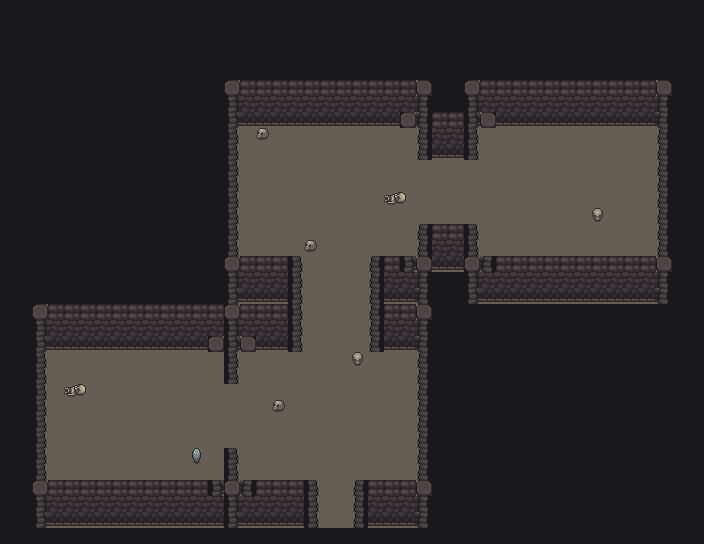
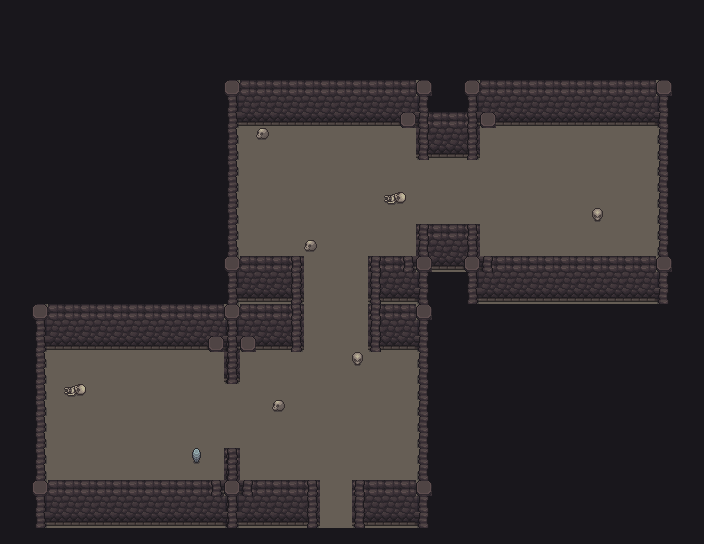
Prevent wall crop padding from cutting gaps through temple masonry

diff --git a/js/first-temple.js b/js/first-temple.js
@@ -1,11 +1,11 @@
 /* Branched first temple: authored floors also define collision and encounter bounds. */
 async function prepareExpandedFirstTemple(){
   if(W.maps.tp1.templeExpanded)return;
-  const response=await fetch('assets/interiors/first-temple/layout.json?v=20260923-temple2');
+  const response=await fetch('assets/interiors/first-temple/layout.json?v=20260923-temple3-seams');
   if(!response.ok)throw Error('First temple layout could not load');
   const layout=await response.json(),images={};
   for(const id of Object.keys(layout)){
-    const image=new Image();image.src='assets/interiors/first-temple/'+id+'.png?v=20260923-temple2';
+    const image=new Image();image.src='assets/interiors/first-temple/'+id+'.png?v=20260923-temple3-seams';
     await image.decode();images[id]=image;
   }
   const old=W.maps.tp1,outside=old.doors.find(d=>d.to==='world'),alderic=old.npcs.find(n=>n.n==='Alderic');

diff --git a/index.html b/index.html
@@ -328,7 +328,7 @@ window.addEventListener("unhandledrejection", function (e) {
 <script src="js/generated/media-5.js?v=1790049472"></script>
 <script src="js/generated/media-6.js?v=1790049472"></script>
 <script src="js/generated/media-7.js?v=1790049472"></script>
-<script src="js/first-temple.js?v=20260923-temple2"></script>
+<script src="js/first-temple.js?v=20260923-temple3-seams"></script>
 <script src="js/fishing.js?v=20260923-fishing-render3"></script>
 <script src="js/house-loot.js?v=20260923-temple2"></script>
 <script src="js/millwood-interiors.js?v=20260923-castle-audit2"></script>

diff --git a/tools/build-first-temple.py b/tools/build-first-temple.py
@@ -13,6 +13,18 @@ north=original.crop((112,32,128,80))
 west=original.crop((64,96,80,112));east=original.crop((240,96,256,112))
 left_pillar=original.crop((64,32,80,80));right_pillar=original.crop((240,32,256,80))
 layout=json.loads((ROOT/'assets/interiors/first-temple/layout.json').read_text())
+VOID={(25,23,28,255),(25,23,30,255)}
+APRON={(102,94,85,255),(75,70,67,255)}
+def stamp_wall(im,tile,xy):
+ # Source crops include opaque exterior padding and a floor/shadow apron.
+ # Neither may erase masonry already drawn at a perpendicular junction.
+ tile=tile.copy();ox,oy=xy
+ for y in range(tile.height):
+  for x in range(tile.width):
+   p=tile.getpixel((x,y));dx,dy=ox+x,oy+y
+   if p in VOID or (p in APRON and 0<=dx<im.width and 0<=dy<im.height and im.getpixel((dx,dy)) not in VOID|APRON):
+    tile.putpixel((x,y),(0,0,0,0))
+ im.alpha_composite(tile,xy)
 def runs(values):
  values=sorted(values)
  if not values:return
@@ -34,12 +46,12 @@ for id,m in layout.items():
    edge=[x for x,fy in floor if fy==y and (x,y+direction*16) not in floor and not(direction==1 and any(y+16==ey+48 and ex-16<=x<ex+16 for ex,ey in exits))]
    for l,r in runs(edge):
     top=y-48 if direction<0 else y+16
-    for x in range(l,r,16):im.alpha_composite(north,(x,top))
+    for x in range(l,r,16):stamp_wall(im,north,(x,top))
     pillars.extend([(l-16,top,left_pillar),(r,top,right_pillar)])
  for x,y in sorted(floor):
-  if (x-16,y) not in floor:im.alpha_composite(west,(x-16,y))
-  if (x+16,y) not in floor:im.alpha_composite(east,(x+16,y))
- for x,y,tile in pillars:im.alpha_composite(tile,(x,y))
+  if (x-16,y) not in floor:stamp_wall(im,west,(x-16,y))
+  if (x+16,y) not in floor:stamp_wall(im,east,(x+16,y))
+ for x,y,tile in pillars:stamp_wall(im,tile,(x,y))
  # A single floor mask prevents doubled seams or walls crossing a junction.
  for x,y in floor:im.paste((102,94,85,255),(x,y,x+16,y+16))
  for x,y in sorted(floor):

diff --git a/tests/temple-wall-art.py b/tests/temple-wall-art.py
@@ -5,6 +5,8 @@ from PIL import Image
 ROOT=Path(__file__).resolve().parents[1]
 plans=json.loads((ROOT/'assets/interiors/first-temple/layout.json').read_text())
 checks=0
+seam_pixels=0
+void={(25,23,28,255),(25,23,30,255)}
 for id,m in plans.items():
  im=Image.open(ROOT/f'assets/interiors/first-temple/{id}.png').convert('RGBA');floor=set()
  exits=[(d['x'],d['y']) for d in m['doors'] if d['dir']=='d']
@@ -16,6 +18,13 @@ for id,m in plans.items():
    if (x,y+direction*16) in floor:continue
    if direction==1 and any(y+16==ey+48 and ex-16<=x<ex+16 for ex,ey in exits):continue
    top=y-48 if direction==-1 else y+16
+   # Audit the entire stone face, especially the outer columns where side
+   # crops and pillars used to punch opaque void strips through the wall.
+   for py in range(top,top+46):
+    for px in range(x,x+16):
+     if (px//16*16,py//16*16) in floor:continue
+     assert im.getpixel((px,py)) not in void|{(102,94,85,255),(75,70,67,255)},(id,'wall seam gap',px,py)
+     seam_pixels+=1
    for offset in [8,24,40]:
     py=top+offset;tile=(x,(py//16)*16)
     if tile in floor:continue
@@ -23,6 +32,12 @@ for id,m in plans.items():
     checks+=1
   for direction in [-1,1]:
    if (x+direction*16,y) in floor:continue
+   edge_x=x-16 if direction==-1 else x+16
+   for py in range(y,y+16):
+    for px in range(edge_x+6,edge_x+10):
+     assert im.getpixel((px,py)) not in void,(id,'vertical seam gap',px,py)
+     seam_pixels+=1
    assert im.getpixel((x-8 if direction==-1 else x+24,y+8))!=(25,23,28,255),(id,'missing side edge',x,y)
    checks+=1
 print(f'PASS: {checks} wall-face and side-edge samples, full 48-pixel faces on all five maps.')
+print(f'PASS: {seam_pixels} masonry pixels checked across all wall faces and perpendicular joins; no void or floor strips.')
